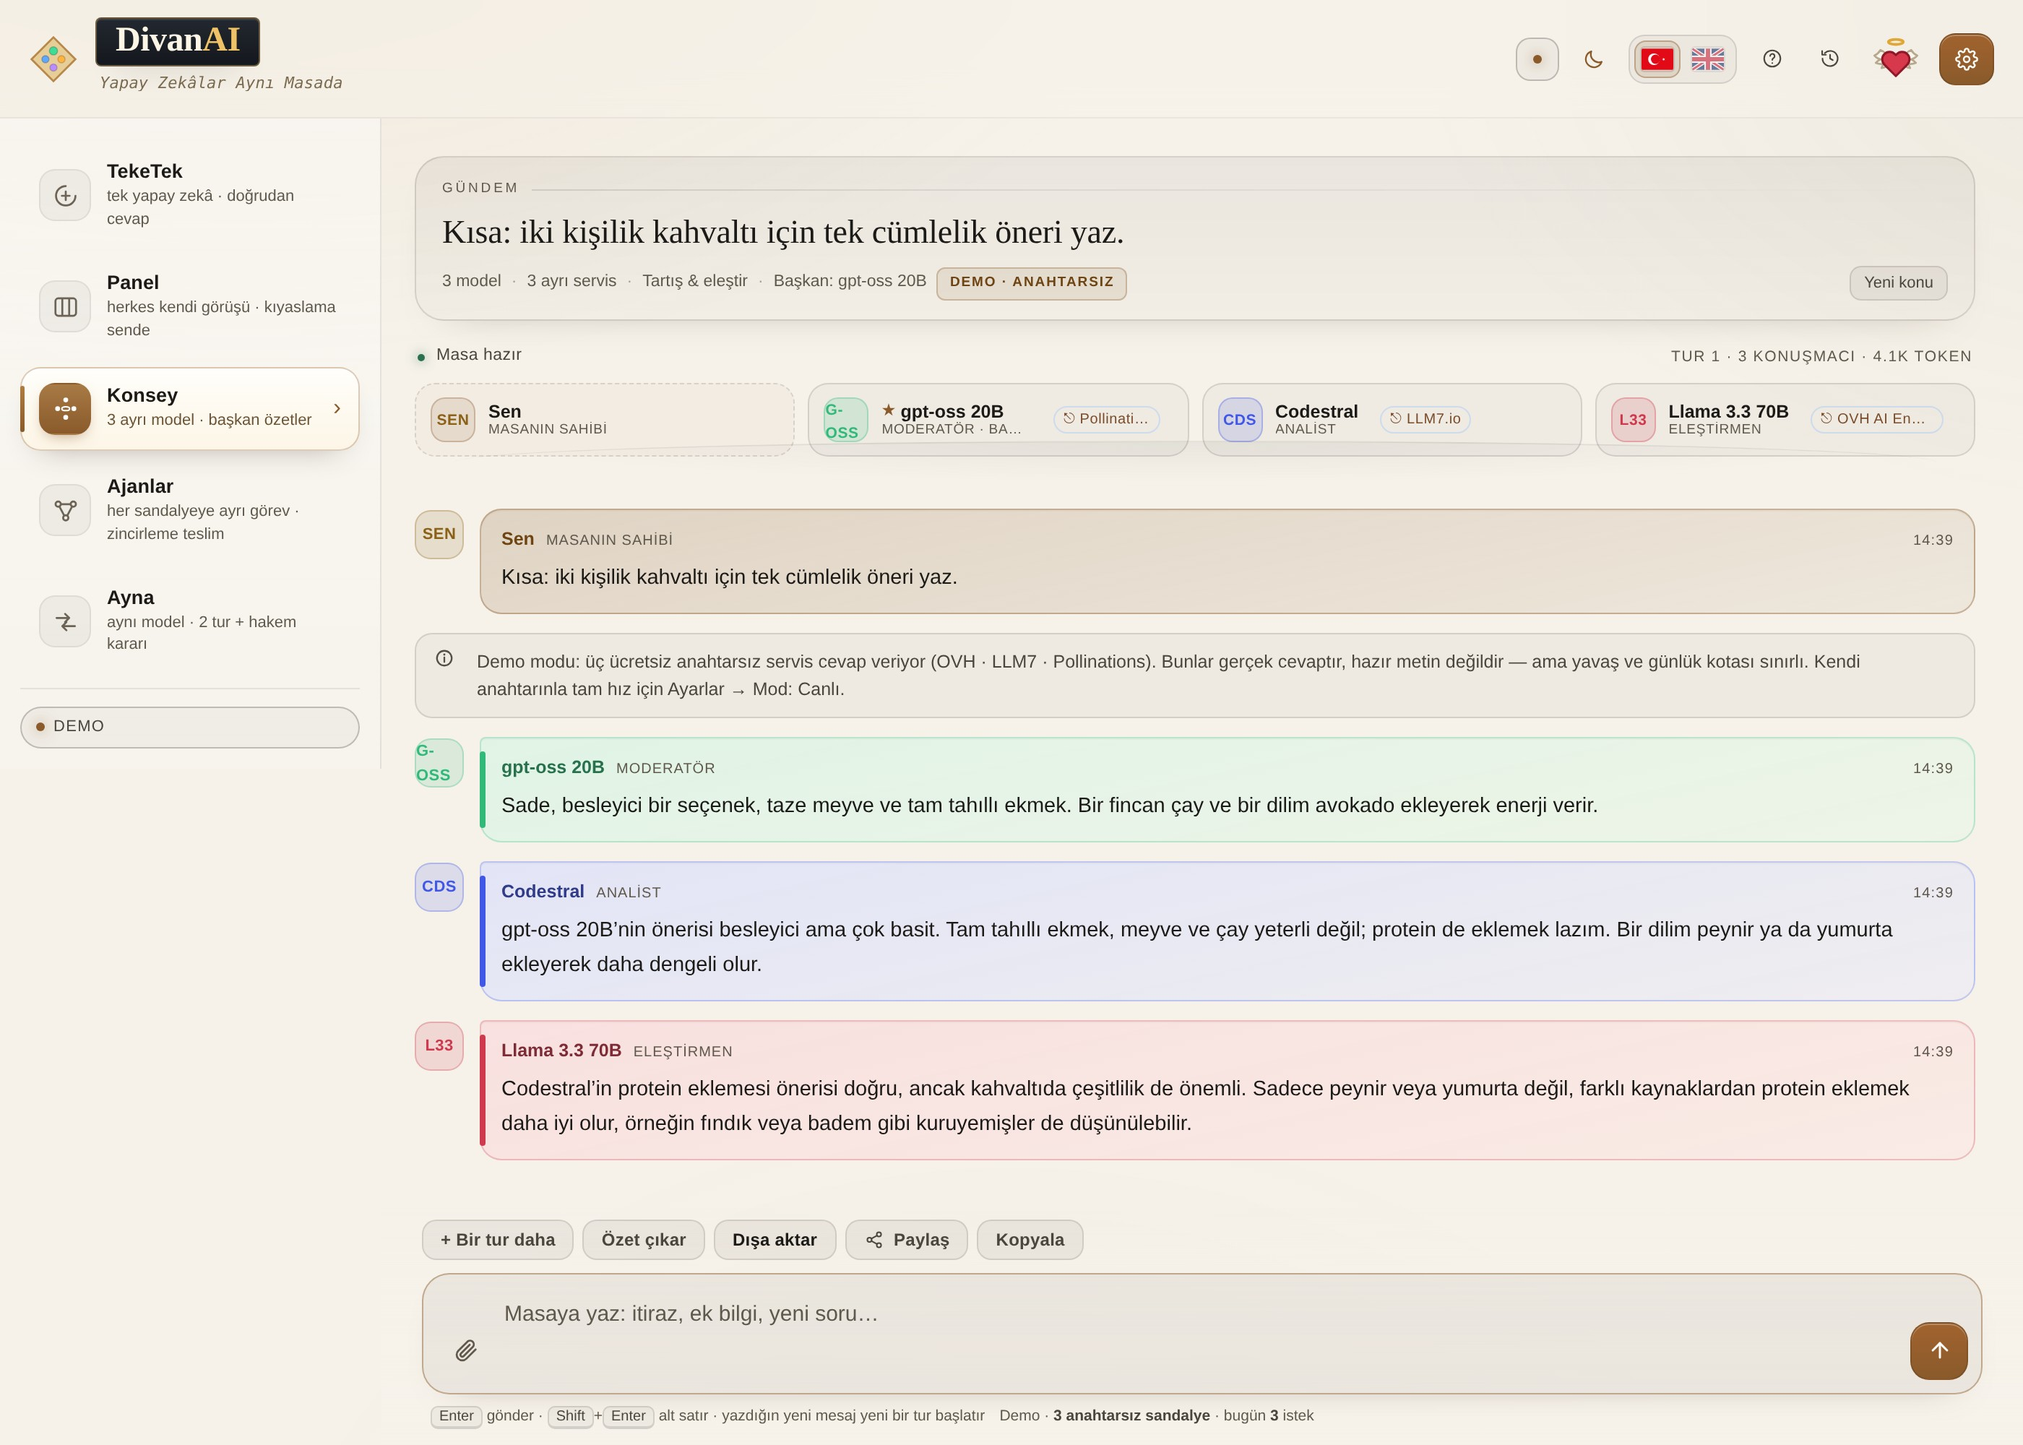
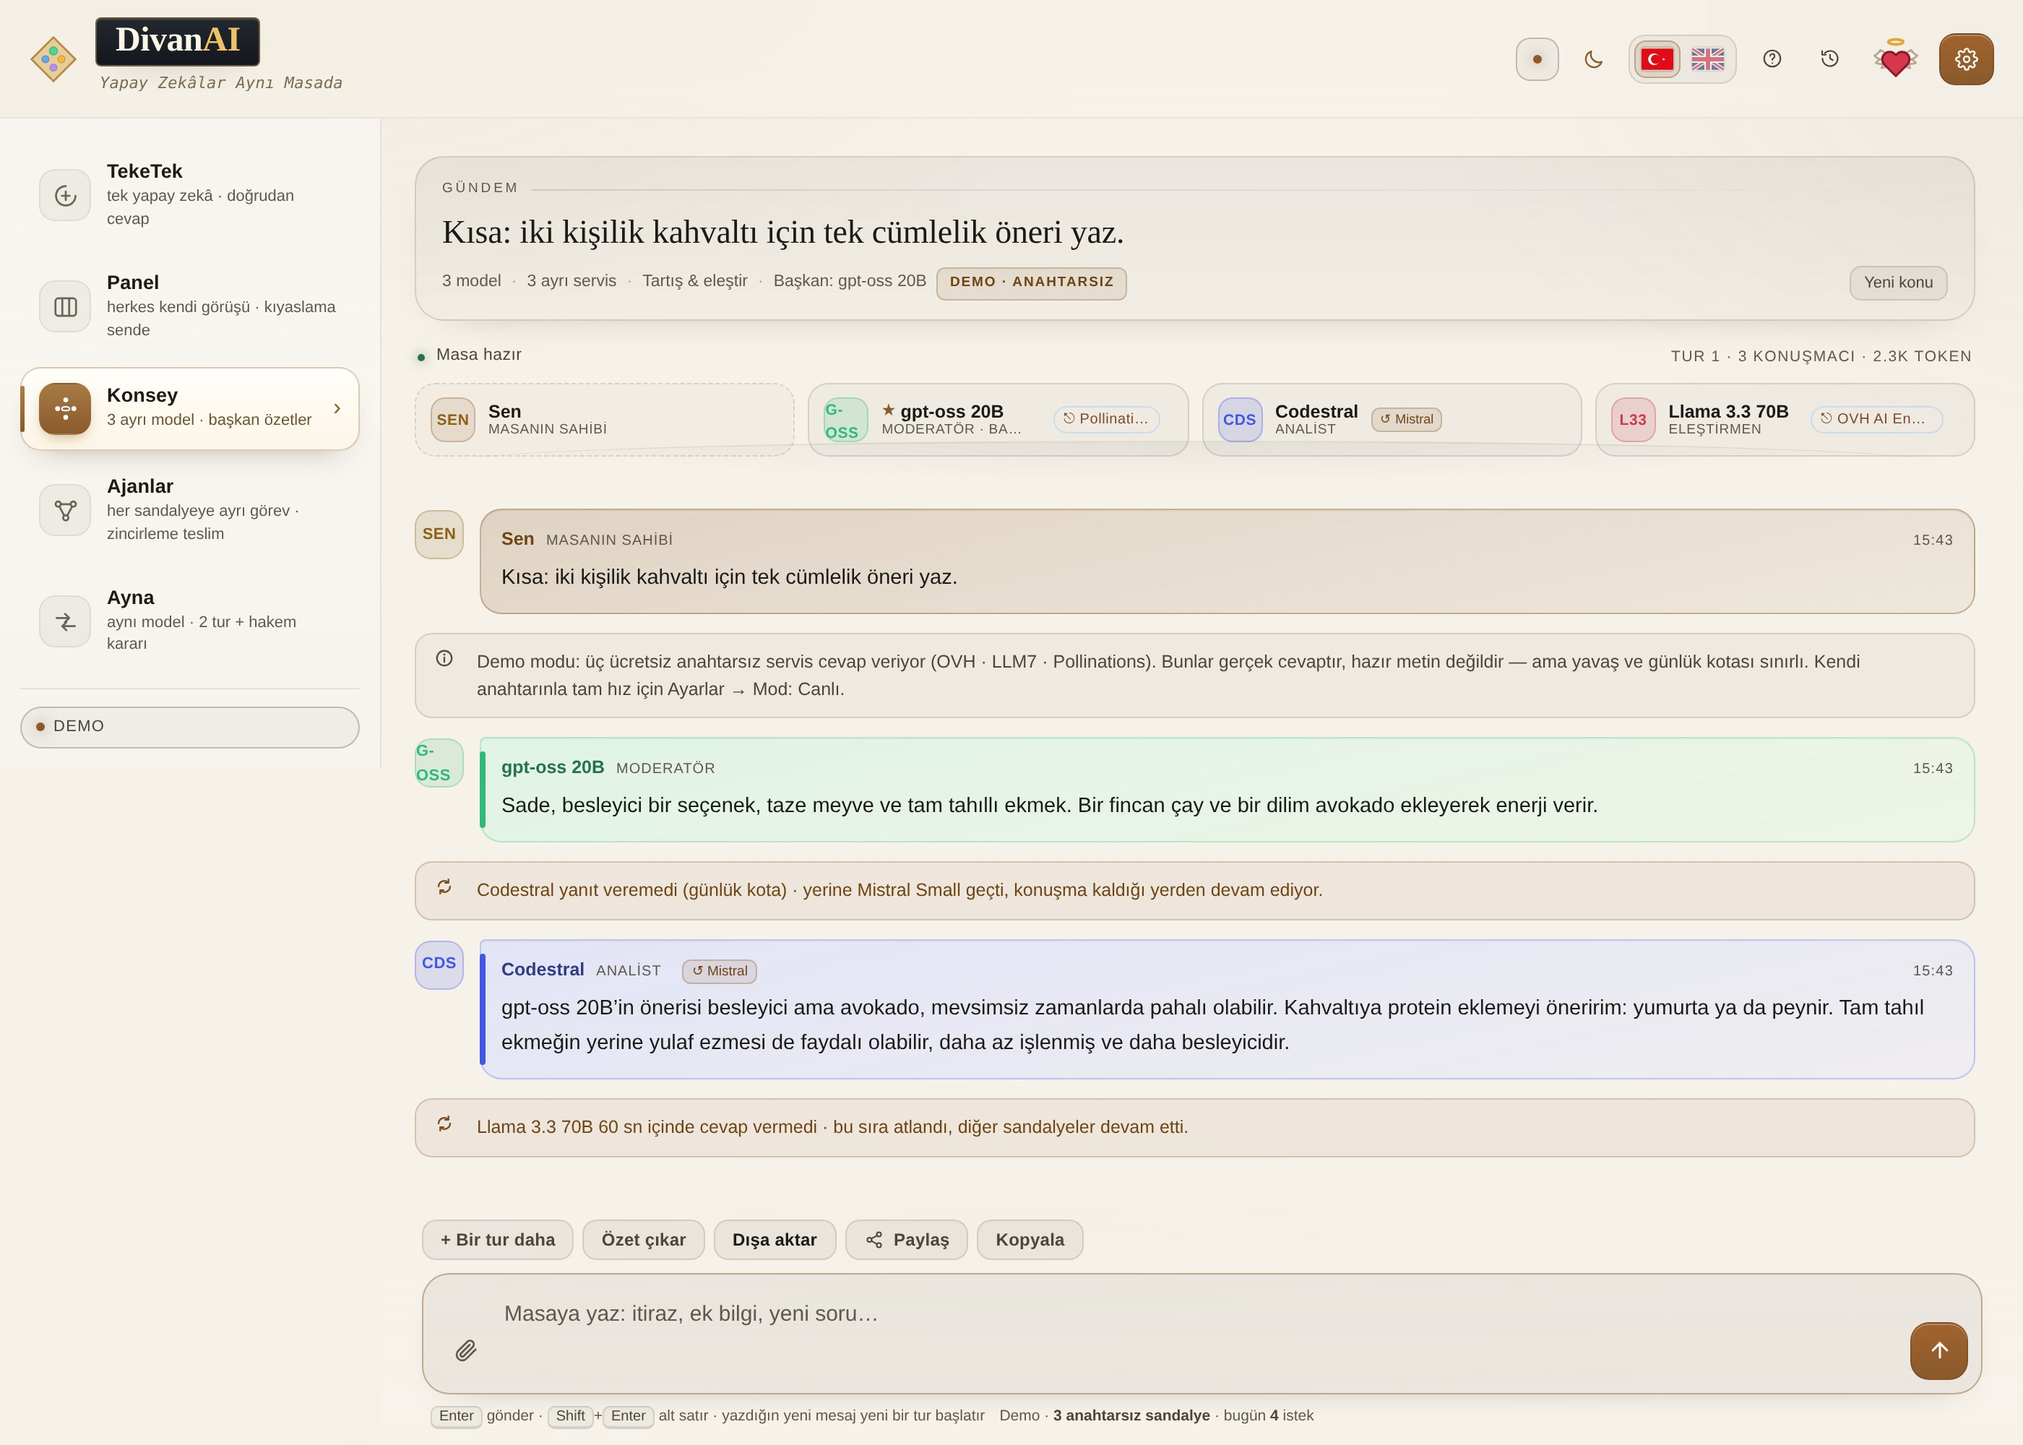
Add files via upload

Changed region(s): [[0.1864, 0.589, 0.9632, 0.806], [0.6836, 0.279, 0.7146, 0.31]]

diff --git a/index.html b/index.html
@@ -1367,11 +1367,14 @@ select optgroup{background:var(--panelSolid);color:var(--muted)}
 .imgCard .imgHead b{font-weight:600;color:var(--text)}
 .imgCard .imgEng{margin-left:auto;font-size:10px;letter-spacing:.05em;color:var(--dim);
   border:1px solid var(--line);border-radius:20px;padding:1px 8px}
-.imgCard img{display:block;width:100%;max-width:760px;height:auto;margin:0 auto;background:var(--bg)}
+.imgCard img{display:block;width:100%;max-width:760px;height:auto;max-height:70vh;object-fit:contain;
+  margin:0 auto;background:var(--bg)}   /* Kol 147: 9:16 gibi dikey görseller ekranı kaplamasın */
 /* oran seçilince kartın üstünde küçük etiket */
 .imgCard .imgRatio{font-size:10px;letter-spacing:.05em;color:var(--dim);border:1px solid var(--line2);border-radius:6px;padding:1px 5px}
 .imgCard figcaption{padding:8px 11px;font-size:11px;color:var(--dim);line-height:1.45;border-top:1px solid var(--line)}
 .imgCard figcaption b{color:var(--muted);font-weight:600}
+/* Kol 147: istemin nereden geldiğini söyleyen satır (ajansız çizimde) */
+.imgCard .imgNote{padding:6px 11px 8px;font-size:11px;line-height:1.45;color:var(--muted);border-top:1px dashed var(--line)}
 .imgCard .imgRetry{margin:0 11px 11px}
 .imgCard.err{border-color:rgba(230,120,120,.35)}
 .imgCard .imgMsg{margin:9px 11px;font-size:12.5px;color:var(--badInk)}
@@ -8974,6 +8977,85 @@ function handoffMsg(x) {
   return addMessage({ kind: 'handoff', name: x.name, pid: x.pid, color: x.color, packet: x.packet, raw: x.raw, no: x.no });
 }
 
+
+/* ---------------- ajan görseli (Kol 147) ----------------
+   İki kusur vardı:
+     · Görsel ajanı cevap veremediğinde görsel HİÇ çizilmiyordu; sebebi de yazmıyordu.
+     · Demo modunda görsel üretimi tümden kapalıydı, oysa ücretsiz motor anahtarsızdır.
+   Şimdi: görsel ajanı düşse de görsel çizilir — istem kullanıcının kendi proje cümlesinden
+   kurulur ve kartta "istem nereden geldi" yazar. Metin uydurulmaz. */
+function ajanGorselSayisi(seats) {
+  return (seats || ajanSeats()).filter(pid => ajanTaskOf(pid).img).length;
+}
+
+/* proje cümlesinden görsel istemi: emir kipini at, kısa tut */
+function ajanProjeIstemi() {
+  const inp = document.getElementById('input');
+  let konu = String(state.topic || '').trim() || String((inp && inp.value) || '').trim();
+  konu = konu.replace(/\s+/g, ' ').trim();
+  konu = konu.replace(/\s*(çıkar|hazırla|yaz|planla|oluştur|üret|tasarla|çıkarır mısın|hazırlar mısın)\.?\s*$/i, '');
+  return konu.slice(0, 400);
+}
+
+async function ajanGorselCiz(p, metin, kaynak, sebep) {
+  const cfgI = imgCfg();
+  let motor = cfgI.engine;
+  /* demo modu: ücretli motor anahtar/kredi ister → ücretsiz (anahtarsız) motorla çiz */
+  if (state.settings.mode !== 'live' && motor === 'openrouter') {
+    motor = 'bedava';
+    if (!state.imgDemoNotice) {
+      state.imgDemoNotice = true;
+      addMessage({ kind: 'notice', level: 'info', text: window.T2(
+        'Görsel motoru “OpenRouter (ücretli)” seçili ama mod Demo: anahtar/kredi harcanmaz, ücretsiz anahtarsız motor kullanıldı. Canlı moda geçersen seçtiğin ücretli motor kullanılır.',
+        'The image engine is set to “OpenRouter (paid)” but the mode is Demo: no key or credit is spent — the keyless free engine was used. Switch to live mode to use the paid engine you picked.') });
+      renderTranscript();
+    }
+  }
+
+  if (!state.imgConfirmed) {
+    const nImg = ajanGorselSayisi();
+    const eng = IMG_ENGINES[motor];
+    const ok = window.confirm('Bu projede ' + nImg + ' görsel çizilecek.\n\n' +
+      'Görseli ajanlar değil, görsel motoru üretir: ' + eng.label + ' — ' + eng.note +
+      (state.settings.mode !== 'live' ? '\n\nDemo modunda ücretsiz motor kullanılır; anahtar gerekmez.' : '') +
+      '\n\nBaşlasın mı?');
+    if (!ok) {
+      addMessage({ kind: 'notice', level: 'info', text: window.T2(
+        'Görsel çizimi atlandı. Metin kısmı hazır; her cevabın başındaki “🖼 Görsel üret” ile istediğin zaman çizdirebilirsin.',
+        'Image drawing was skipped. The text is ready; use the “🖼 Generate image” button at the top of any answer whenever you want.') });
+      renderTranscript();
+      return null;
+    }
+    state.imgConfirmed = true;
+  }
+
+  const prompt = kaynak === 'ajan' ? imgPromptFrom(metin) : ajanProjeIstemi();
+  if (!prompt) {
+    addMessage({ kind: 'notice', level: 'warn', text: window.T2(
+      'Görsel için istem çıkarılamadı (ne ajanın metni ne proje cümlesi elde var).',
+      'No prompt could be built for the image (neither the agent text nor the project sentence is available).') });
+    renderTranscript();
+    return null;
+  }
+
+  const im = addMessage({ kind: 'image', personaId: p.id, name: p.name, color: p.color,
+    prompt: prompt, label: window.T2('Görsel', 'Image'), status: 'run',
+    engine: motor, forceEngine: motor,
+    note: kaynak === 'ajan' ? '' : window.T2(
+      'İstem ajanın metninden değil, senin proje cümleden kuruldu' + (sebep ? ' (' + sebep + ')' : '') + '.',
+      'The prompt was built from your project sentence, not the agent’s text' + (sebep ? ' (' + sebep + ')' : '') + '.') });
+  appendMsgDOM(im); scrollBump(true);
+  await runImageMsg(im);
+  scrollBump(false);
+  if (im.status === 'err') {
+    addMessage({ kind: 'notice', level: 'warn', text: window.T2(
+      'Görsel çizilemedi: ' + (im.error || 'bilinmeyen hata') + ' Metin teslimatı etkilenmedi.',
+      'The image could not be drawn: ' + (im.error || 'unknown error') + ' The text delivery is unaffected.') });
+    renderTranscript();
+  }
+  return im;
+}
+
 /* ---------------- yürütücü ---------------- */
 async function runAgents(opts = {}) {
   const token = ++state.runToken;
@@ -9075,6 +9157,7 @@ async function runAgents(opts = {}) {
 
   let hops = 0, done = 0, stopped = '';
   const restingNow = [];        // bu koşuda dinlendiği için atlanan bağlantılar
+  const imgBekliyor = [];       // görseli çizilemeyen sandalyeler (Kol 147)
 
   while (queue.length) {
     if (token !== state.runToken) return;
@@ -9160,6 +9243,7 @@ async function runAgents(opts = {}) {
         }
         renderTranscript();
         if (stepIdx >= 0) state.ajanSteps[stepIdx].state = 'skip';
+        if (t.img) imgBekliyor.push({ pid: p.id, name: p.name, why: jobTimedOut + ' sn içinde cevap yok' });
         continue;
       }
       if (e && e.name === 'AbortError') return;
@@ -9179,6 +9263,7 @@ async function runAgents(opts = {}) {
         queue = []; stopped = 'kota';
       }
       if (stepIdx >= 0) state.ajanSteps[stepIdx].state = 'skip';
+      if (t.img) imgBekliyor.push({ pid: p.id, name: p.name, why: whyShort(e && e.message) });
     } finally {
       if (jobTimer) clearTimeout(jobTimer);
       if (userSig && userSig.removeEventListener) { try { userSig.removeEventListener('abort', onUserAbort); } catch (e0) {} }
@@ -9188,6 +9273,7 @@ async function runAgents(opts = {}) {
       addMessage({ kind: 'notice', level: 'warn', text: p.name + ' boş yanıt döndü (' + (res.why || 'boş') + '). Bu adım atlandı.' });
       renderTranscript();
       if (stepIdx >= 0) state.ajanSteps[stepIdx].state = 'skip';
+      if (t.img) imgBekliyor.push({ pid: p.id, name: p.name, why: 'boş yanıt' });
     } else if (res && res.text && res.text.trim()) {
       const pkt = parsePacket(res.text);
       const body = pkt ? packetBody(res.text) : res.text;
@@ -9200,30 +9286,7 @@ async function runAgents(opts = {}) {
         renderTranscript();
       }
       /* görsel görevli sandalye: metin bitti, şimdi görsel */
-      if (t.img && state.settings.mode !== 'live') {
-        addMessage({ kind: 'notice', level: 'info', text: window.T2(p.name + ' için görsel çizimi istendi ama demo modunda görsel üretilmez (ağa çıkılmaz, hazır metinden anlamlı bir istem de çıkmaz). Canlı modda ajanın yazdığı istemle görsel motoru çizer; denemek istersen cevabın başındaki “🖼 Görsel üret” düğmesini kullan.',
-            p.name + ' was asked to draw an image, but nothing is generated in demo mode (no network, and a canned text yields no meaningful prompt). In live mode the image engine draws from the prompt the agent writes; to try it, use the “🖼 Generate image” button at the top of the answer.') });
-        renderTranscript();
-      } else if (t.img) {
-        if (!state.imgConfirmed) {
-          const nImg = seats.filter(x => ajanTaskOf(x).img).length;
-          if (window.confirm('Bu projede ' + nImg + ' görsel çizilecek (ajanların metninden).\n\n' +
-            'Görseli ajanlar değil, seçili görsel motoru üretir: ' + IMG_ENGINES[imgCfg().engine].label +
-            ' — ' + IMG_ENGINES[imgCfg().engine].note + '\n\nBaşlasın mı?')) {
-            state.imgConfirmed = true;
-          } else {
-            addMessage({ kind: 'notice', level: 'info', text: 'Görsel çizimi atlandı. Metin kısmı hazır; her cevabın başındaki “🖼 Görsel üret” ile istediğin zaman tek tek çizdirebilirsin.' });
-            renderTranscript();
-          }
-        }
-        if (state.imgConfirmed) {
-          const im = addMessage({ kind: 'image', personaId: p.id, name: p.name, color: p.color,
-            prompt: imgPromptFrom(draft.text), label: 'Görsel', status: 'run', engine: imgCfg().engine });
-          appendMsgDOM(im); scrollBump(true);
-          await runImageMsg(im);
-          scrollBump(false);
-        }
-      }
+      if (t.img) await ajanGorselCiz(p, draft.text, 'ajan');
       const rec = { name: p.name, pid: p.id, color: p.color, packet: pkt, raw: body || res.text, no: packets.length + 1 };
       packets.push(rec);
       handoffMsg(rec);
@@ -9277,6 +9340,33 @@ async function runAgents(opts = {}) {
     addMessage({ kind: 'notice', level: 'info', text:
       'Dinlenen bağlantının adımları atlandı: ' + restingNow.join(', ') + '. Diğer ajanlar devam etti.' });
     renderTranscript();
+  }
+
+  /* Görsel ajanı düştüyse görsel yine çizilir: istem SENİN proje cümleden kurulur,
+     ajanın metninden değil. Kartta kaynağı yazar; hiçbir şey uydurulmaz. */
+  /* Günlük LLM kotası dolsa bile görsel çizilir: görsel motoru ayrı bir servistir,
+     aynı kotadan harcamaz. Kullanıcı en azından istediği görseli alır. */
+  let gorselIsleri = imgBekliyor;
+  if (!gorselIsleri.length && token === state.runToken) {
+    /* Tur hiç paket üretmeden kesildiyse (kota/asılma) görsel sandalyeleri hiç çalışmamış olabilir.
+       Kullanıcı yine de görseli istemişti: istem proje cümlesinden kurulur, en çok 2 görsel çizilir. */
+    const istenen = seats.filter(pid => ajanTaskOf(pid).img);
+    if (!packets.length && istenen.length) {
+      gorselIsleri = istenen.slice(0, 2).map(pid => ({ pid: pid, name: (personaById(pid) || {}).name || pid,
+        why: stopped === 'kota' ? window.T2('günlük ücretsiz istek hakkı doldu', 'daily free request quota is used up') : window.T2('tur erken kesildi', 'the round was cut short') }));
+    }
+  }
+  if (gorselIsleri.length && token === state.runToken) {
+    for (const x of gorselIsleri) {
+      if (token !== state.runToken) return;
+      const q = personaById(x.pid);
+      if (!q) continue;
+      addMessage({ kind: 'notice', level: 'warn', text: window.T2(
+        q.name + ' görseli çizemedi (' + x.why + '). Görsel senin proje cümleden çiziliyor — istem ajanın metninden değil.',
+        q.name + ' could not draw the image (' + x.why + '). The image is drawn from your project sentence — not from the agent’s text.') });
+      renderTranscript();
+      await ajanGorselCiz(q, '', 'proje', x.why);
+    }
   }
 
   if (!packets.length) {
@@ -10427,7 +10517,7 @@ const IMG_RATIOS = [
 ];
 const imgRatioOf = k => IMG_RATIOS.find(r => r.k === k) || IMG_RATIOS[0];
 /* istenen oranı motora uygun tam sayı boyuta çevir */
-function imgDims(k) {
+function imgDims(k, motor) {
   const c = imgCfg();
   const base = Math.max(512, Math.min(1536, Math.round(Number(c.size) || 1024)));
   const r = imgRatioOf(k || c.ratio);
@@ -10435,7 +10525,7 @@ function imgDims(k) {
   let h = r.n >= 1 ? base : Math.round(base / r.n);
   /* Ücretsiz motor uzun kenarı 1024'te tutuyor (ölçüldü: 1824×1024 istendi, 1024×575 geldi).
      Kartta yazan boyut gerçekten istenen boyut olsun diye önce biz indiriyoruz. */
-  if (c.engine === 'bedava') {
+  if ((motor || c.engine) === 'bedava') {
     const long = Math.max(w, h);
     if (long > 1024) { const f = 1024 / long; w = Math.round(w * f); h = Math.round(h * f); }
   }
@@ -10495,7 +10585,7 @@ function imgPromptFrom(text) {
 
 /* ---- motor: ücretsiz (anahtarsız) ---- */
 async function genImageFree(prompt, signal) {
-  const d = imgDims();                       // orana göre genişlik/yükseklik
+  const d = imgDims(undefined, 'bedava');    // orana göre genişlik/yükseklik
   const seed = Math.floor(Math.random() * 1e6);
   const url = 'https://image.pollinations.ai/prompt/' + encodeURIComponent(prompt.slice(0, 900)) +
     '?width=' + d.w + '&height=' + d.h + '&nologo=true&seed=' + seed;
@@ -10577,8 +10667,11 @@ function imgErr(message, kind, wait, retryOnce) {
 /* ---- tek giriş noktası ---- */
 async function genImage(prompt, opts = {}) {
   const cfgI = imgCfg();
+  /* Kol 147 · motor çağrı başına geçersiz kılınabilir: demo modunda ücretli motor yerine
+     ücretsiz (anahtarsız) motor kullanılır. Ayarlar'daki seçim değiştirilmez. */
+  const motor = IMG_ENGINES[opts.engine] ? opts.engine : cfgI.engine;
   if (!prompt || !prompt.trim()) throw imgErr('Görsel istemi boş.', 'conf');
-  if (cfgI.engine === 'openrouter' && !state.imgPaidOk) {
+  if (motor === 'openrouter' && !state.imgPaidOk) {
     const ok = window.confirm(
       'Görsel ÜCRETLİ motordan üretilecek (OpenRouter · ' + cfgI.model + ').\n\n' +
       'Görsel başına yaklaşık $0.001–0.003 harcanır; bu ücret senin kendi anahtarından düşer.\n\n' +
@@ -10587,7 +10680,7 @@ async function genImage(prompt, opts = {}) {
     if (!ok) throw imgErr('Ücretli görsel üretimi iptal edildi.', 'conf');
     state.imgPaidOk = true;      // oturum boyunca bir daha sorma
   }
-  if (cfgI.engine === 'bedava') {
+  if (motor === 'bedava') {
     const wait = imgReadyIn();
     if (wait > 0) {
       if (opts.onWait) opts.onWait(wait);
@@ -10624,6 +10717,7 @@ function imgCardHTML(m) {
       '<span class="imgEng">' + esc(eng) + '</span></div>' +
       '<p class="imgMsg">' + esc(m.error || 'bilinmeyen hata') + '</p>' +
       '<div class="imgPrompt">' + esc(m.prompt || '') + '</div>' +
+      (m.note ? '<div class="imgNote">' + esc(m.note) + '</div>' : '') +
       '<button type="button" class="btn ghost sm imgRetry" data-img="' + m.id + '">Yeniden dene</button></div>';
   }
   const src = m.src || '';
@@ -10634,6 +10728,7 @@ function imgCardHTML(m) {
     (src ? '<img src="' + esc(src) + '" alt="' + esc(m.alt || m.prompt || 'üretilen görsel') + '" loading="lazy">'
          : '<div class="imgGone">Görsel bu tarayıcıda saklanmaz — sayfa yenilendi. “Yeniden üret” ile tekrar çıkar.</div>') +
     '<figcaption title="' + esc(m.prompt || '') + '"><b>İstem:</b> ' + esc((m.prompt || '').slice(0, 220)) + '</figcaption>' +
+    (m.note ? '<div class="imgNote">' + esc(m.note) + '</div>' : '') +
     (src ? '' : '<button type="button" class="btn ghost sm imgRetry" data-img="' + m.id + '">Yeniden üret</button>') +
     '</figure>';
 }
@@ -10654,7 +10749,7 @@ async function runImageMsg(m) {
   m.error = '';
   m.prompt = withCam(m.prompt, imgCfg().cam);   // kamera etiketi (varsa) — iki kez eklenmez
   m.ratio = imgCfg().ratio;                      // kartta oranı göster
-  m.engine = imgCfg().engine;
+  m.engine = m.forceEngine || imgCfg().engine;
   if (!state.dom.get(m.id)) appendMsgDOM(m);
   else updateMsgDOM(m);
 
@@ -10670,6 +10765,7 @@ async function runImageMsg(m) {
   try {
     const r = await genImage(m.prompt, {
       label: m.label,
+      engine: m.forceEngine || '',
       onWait: w => { m.waitUntil = Date.now() + w * 1000 + 400; m.status = 'wait'; updateMsgDOM(m); startTicker(); }
     });
     m.src = r.src; m.status = 'ok'; m.engine = r.engine;
